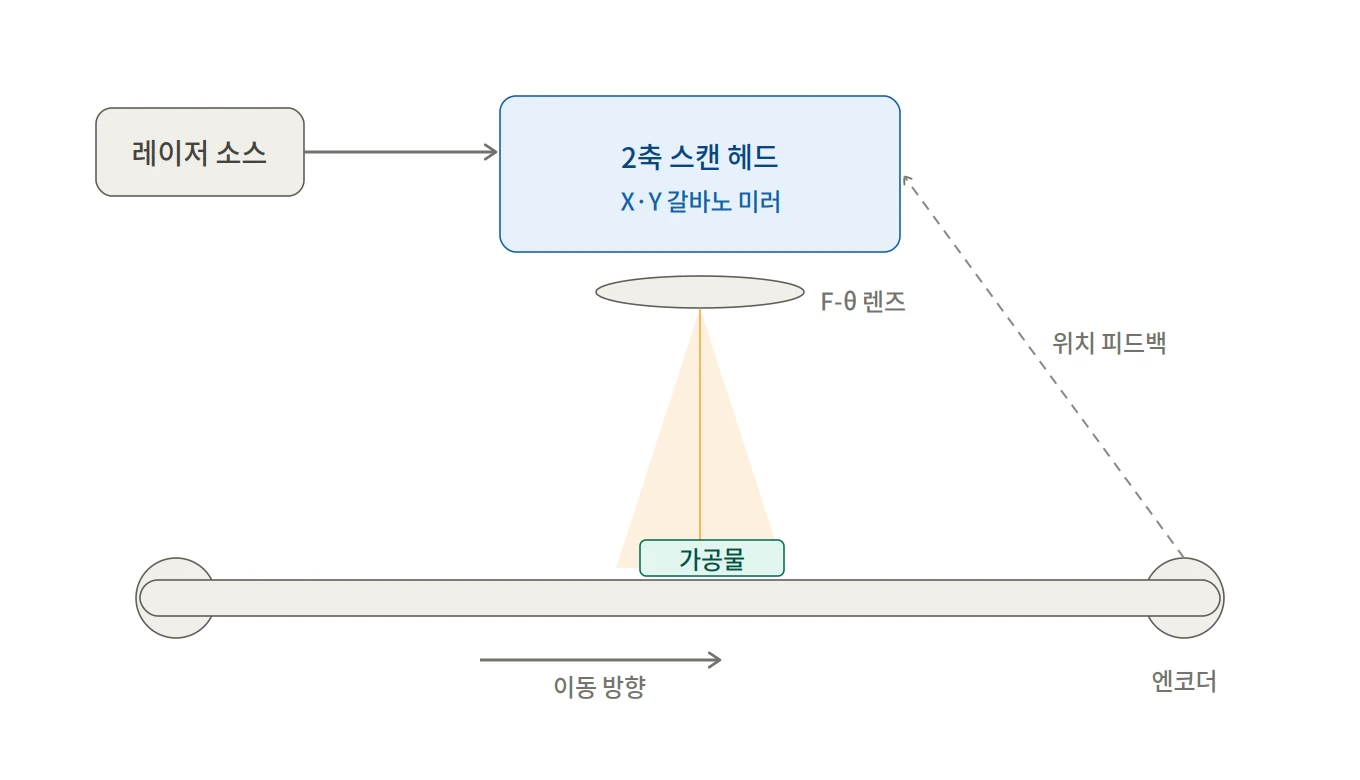
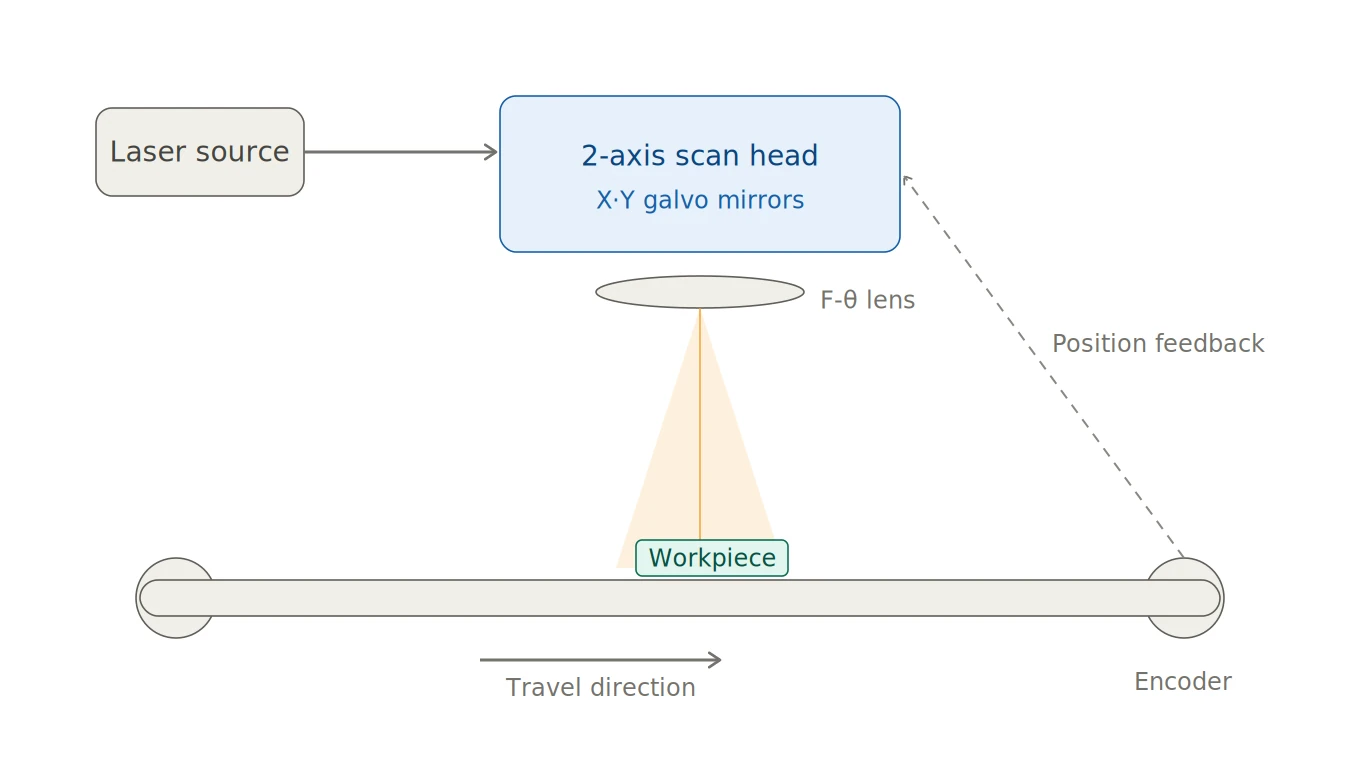
update

diff --git a/collections/_projects/intelligent-manufacturing.md b/collections/_projects/intelligent-manufacturing.md
@@ -60,6 +60,16 @@ Leverage TSLoom and Edge AI to transform visual data into actionable intelligenc
 - Coating Thickness Prediction: Apply AI models to predict coating thickness in real time.
 - Process Optimization: Dynamically adjust coating parameters to ensure uniformity.
 
+A side-mounted camera (axial view) observes the meniscus (coating bead) cross-section between the die lip and web in real time, closing the loop from machine-vision shape detection to AI thickness prediction and dynamic parameter tuning to ensure film uniformity.
+
+|<img src="/assets/images/gen/projects/r2r-mon-setup.webp" width="560">|
+|---|
+| Side camera placement: observing the meniscus cross-section from the coating-roll side (axial view) |
+
+|<img src="/assets/images/gen/projects/r2r-mon-loop.webp" width="560">|
+|---|
+| Closed-loop control: side camera → meniscus shape detection → AI thickness prediction → parameter optimization |
+
 **Display Defect Classification**
 - Defect Detection: Identify micro-defects in display panels using high-resolution cameras.
 - Classification & Analysis: Classify defects by type, size, and location with machine learning.
@@ -111,9 +121,9 @@ Perform laser marking and processing with a scanner while the workpiece moves co
 - Real-Time Dynamic Focus Control: Perform feed correction (X·Y) and surface-height tracking (Z) simultaneously, using a z-shifter (dynamic focusing module) to keep the focus on the surface even on curved, stepped, and cylindrical geometries.
 - Precise Synchronization: Align the encoder, scanner, and workpiece 3D coordinate systems and compensate for synchronization latency to maintain processing accuracy even at high feed speeds.
 
-|<img src="/assets/images/gen/projects/otf-2d.webp" width="430">|<img src="/assets/images/gen/projects/otf-3d.webp" width="430">|
-|---|---|
-| 2D On-The-Fly setup: 2-axis galvano scan head + encoder position feedback (flat targets) | 3D On-The-Fly setup: dynamic Z-focus module tracks the focus (Δz) along curved surfaces |
+|<img src="/assets/images/gen/projects/otf-2d.webp" width="430">|<span style="display:inline-block;width:50px">&nbsp;</span>|<img src="/assets/images/gen/projects/otf-3d.webp" width="430">|
+|---|:---:|---|
+| **2D On-The-Fly setup**<br>2-axis galvano scan head + encoder position feedback (flat targets) | | **3D On-The-Fly setup**<br>Dynamic Z-focus module tracks the focus (Δz) along curved surfaces |
 
 ## Key Benefits of VCANUS Solutions
 
